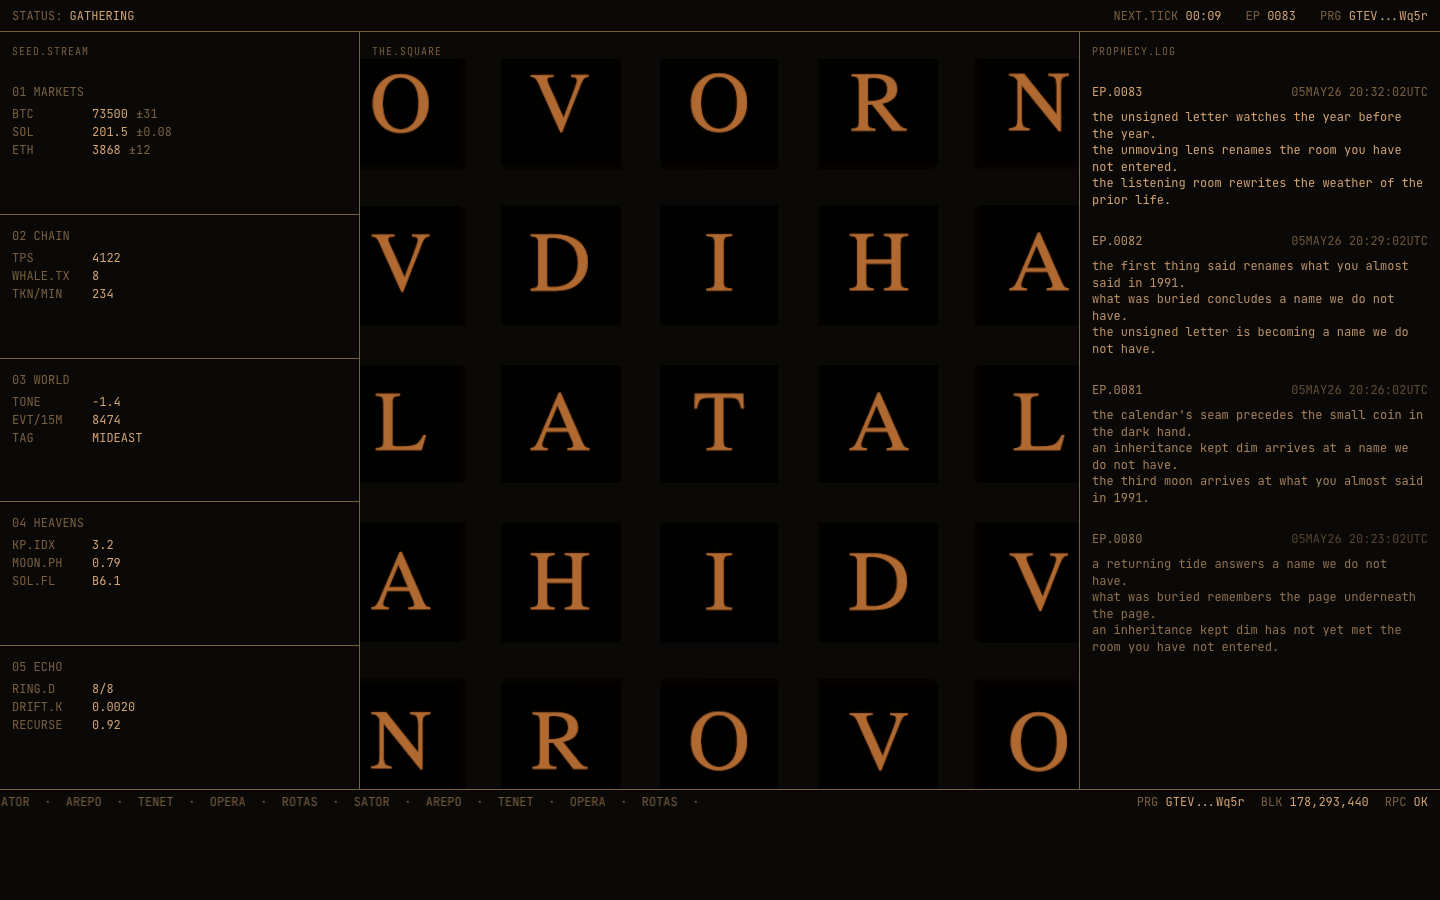
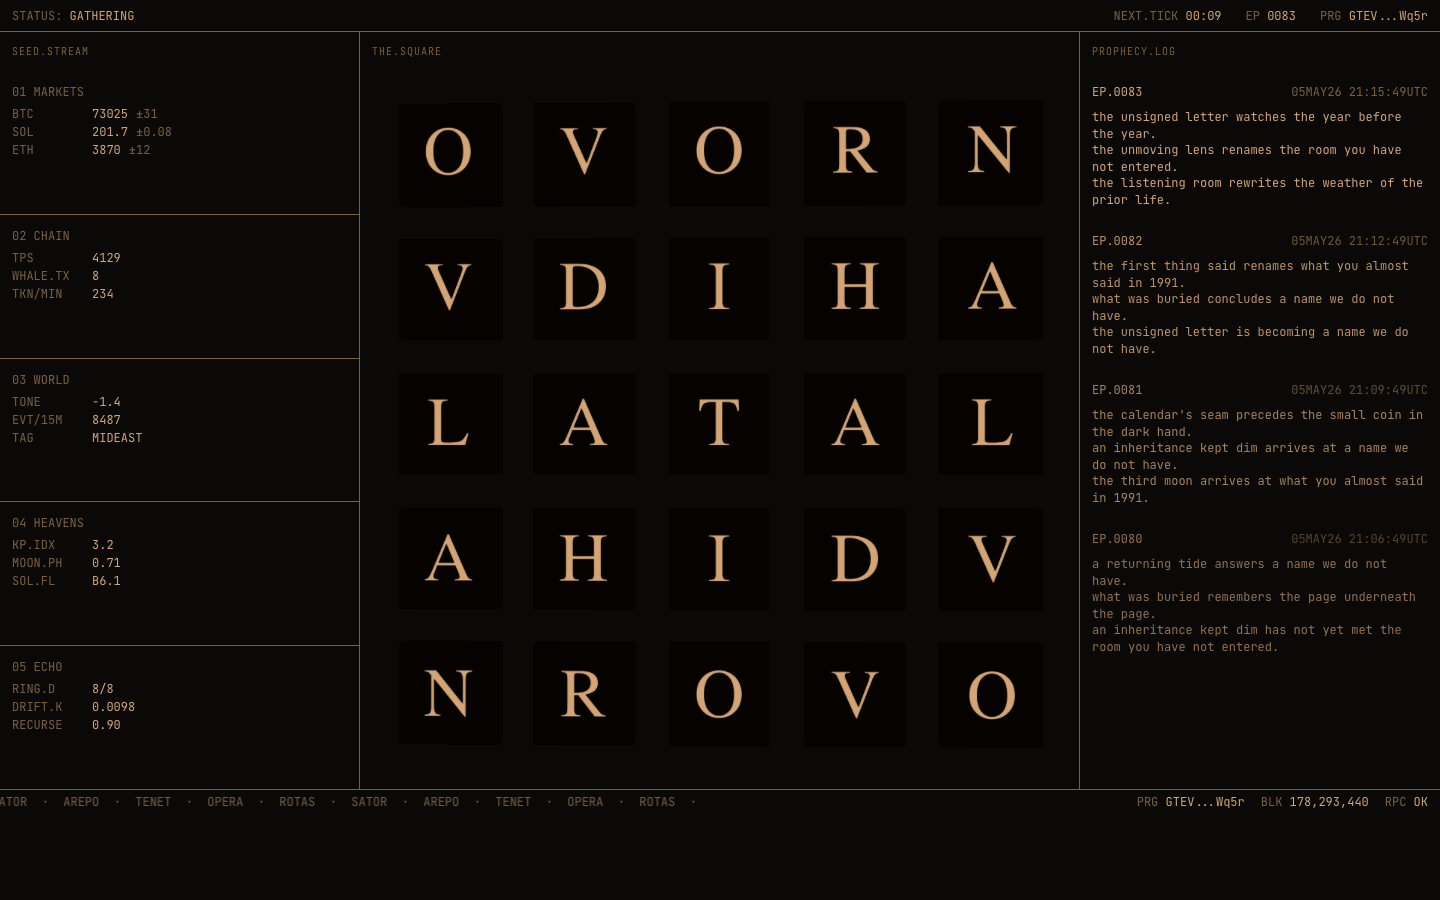
Phase 5 round 3: shrink arrows so READING fits the same cube size
The round-2 reading frame had the cube apparently overflowing because
the arrow group was too prominent — half the bottom of the canvas was
arrow geometry — and the labels spilled past the camera frustum.

This pass keeps the camera (z=10, FOV 35°) so cube size matches the
already-correct locking-v2 frame, and shrinks the bottom group:
- Arrow shape halved on both axes (height ~0.20, was ~0.40).
- Extrude depth dropped to 0.04.
- Arrow groups moved closer to centerline (x=±0.85 was ±1.30).
- Label plane height 0.10 (was 0.18) — tracks the section-label scale
  rather than the data-readout scale.
- Labels positioned 0.14 below the arrow center (was 0.32) so the two
  read as one tight indicator pair.

Bottom group now occupies roughly the bottom 6% of the canvas. The
cube frames (gathering, locked, reading) all use the same camera so
the cube is the same size in all three.

diff --git a/web/components/SatorSquare3DCanvas.tsx b/web/components/SatorSquare3DCanvas.tsx
@@ -351,15 +351,17 @@ function Slab({ position, frontTexture, backTexture }: SlabProps) {
   );
 }
 
+// Small "indicator" arrow — the spec wants the bottom group to occupy
+// roughly the bottom 8-10% of the visible region, not feature-prominence.
 const arrowShape = (() => {
   const s = new THREE.Shape();
-  s.moveTo(-0.4, -0.08);
-  s.lineTo(0.16, -0.08);
-  s.lineTo(0.16, -0.20);
-  s.lineTo(0.45, 0);
-  s.lineTo(0.16, 0.20);
-  s.lineTo(0.16, 0.08);
-  s.lineTo(-0.4, 0.08);
+  s.moveTo(-0.22, -0.04);
+  s.lineTo(0.08, -0.04);
+  s.lineTo(0.08, -0.10);
+  s.lineTo(0.22, 0);
+  s.lineTo(0.08, 0.10);
+  s.lineTo(0.08, 0.04);
+  s.lineTo(-0.22, 0.04);
   s.closePath();
   return s;
 })();
@@ -396,28 +398,28 @@ function ReadingArrows() {
     },
     [forwardTex, backwardTex]
   );
-  // canvas is 512×96, aspect 5.33; pick a plane height around the
-  // section-label scale (~10px ≈ 0.18 units in this scene).
-  const labelH = 0.18;
+  // Label canvas is 512×96 (aspect ~5.33); plane height matches the
+  // 10px section-label scale, so labelH ≈ 0.10 units in this scene.
+  const labelH = 0.10;
   const labelW = labelH * (512 / 96);
   return (
     <group position={[0, -2.85, 0]}>
-      <group position={[1.3, 0, 0]}>
+      <group position={[0.85, 0, 0]}>
         <mesh>
-          <extrudeGeometry args={[arrowShape, { depth: 0.06, bevelEnabled: false }]} />
+          <extrudeGeometry args={[arrowShape, { depth: 0.04, bevelEnabled: false }]} />
           <meshBasicMaterial color={PHOSPHOR_DIM} toneMapped={false} />
         </mesh>
-        <mesh position={[0, -0.32, 0]}>
+        <mesh position={[0, -0.14, 0]}>
           <planeGeometry args={[labelW, labelH]} />
           <meshBasicMaterial map={forwardTex} transparent toneMapped={false} />
         </mesh>
       </group>
-      <group position={[-1.3, 0, 0]}>
+      <group position={[-0.85, 0, 0]}>
         <mesh rotation={[0, 0, Math.PI]}>
-          <extrudeGeometry args={[arrowShape, { depth: 0.06, bevelEnabled: false }]} />
+          <extrudeGeometry args={[arrowShape, { depth: 0.04, bevelEnabled: false }]} />
           <meshBasicMaterial color={PHOSPHOR_DIM} toneMapped={false} />
         </mesh>
-        <mesh position={[0, -0.32, 0]}>
+        <mesh position={[0, -0.14, 0]}>
           <planeGeometry args={[labelW, labelH]} />
           <meshBasicMaterial map={backwardTex} transparent toneMapped={false} />
         </mesh>